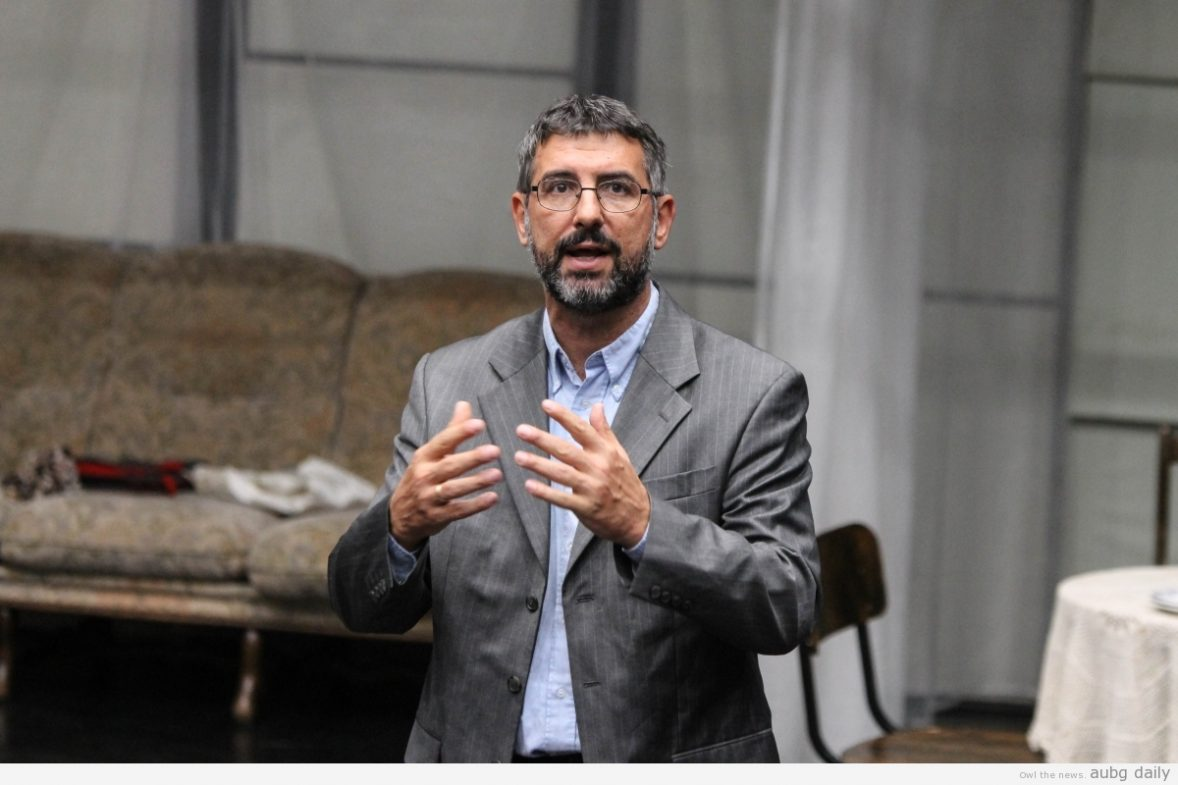
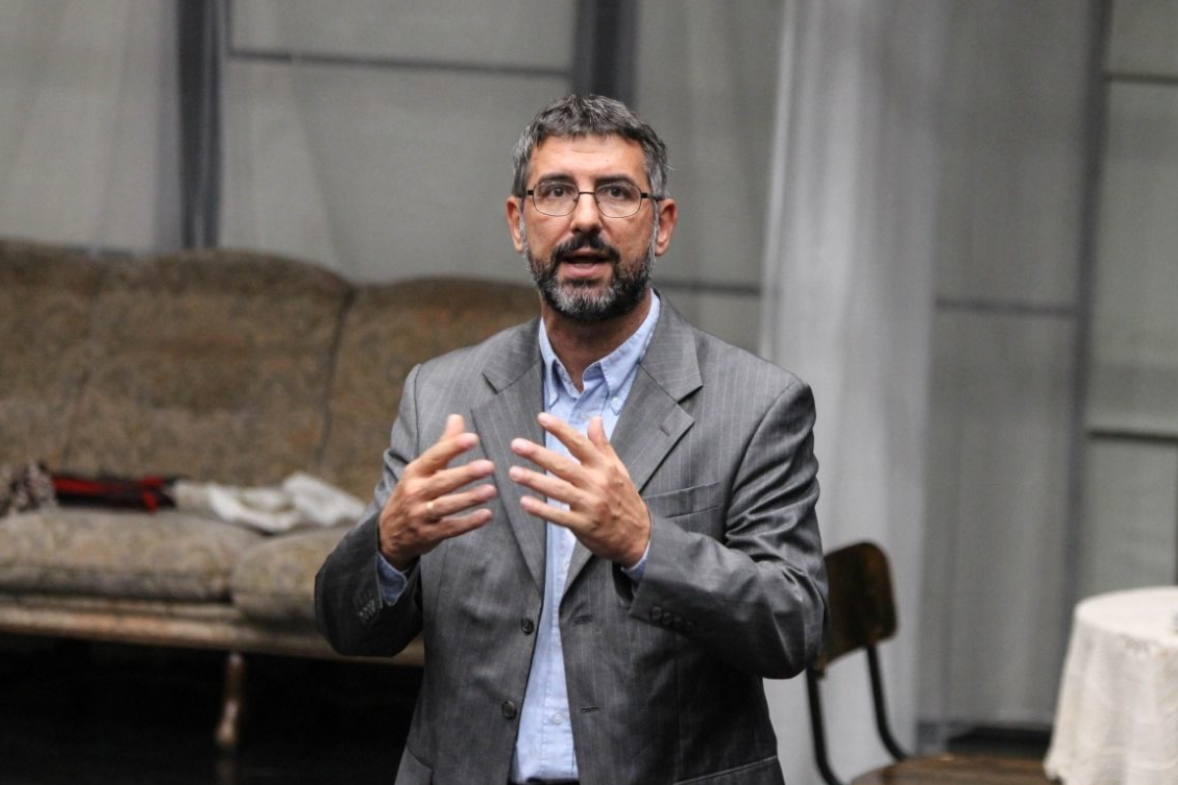
about image hover

diff --git a/Nedyalko_Website/NedyalkoGPT.html b/Nedyalko_Website/NedyalkoGPT.html
@@ -1,0 +1,102 @@
+<!DOCTYPE html>
+<html>
+  <head>
+    <title>Chat Interface</title>
+    <style>
+      /* Style the chat messages */
+      .message-container {
+        display: flex;
+        flex-direction: column;
+        align-items: flex-end;
+        margin: 10px;
+      }
+      .user-message {
+        background-color: #e9e9e9;
+        border-radius: 20px;
+        padding: 10px 20px;
+        margin-bottom: 10px;
+        align-self: flex-start;
+        font-size: 16px;
+        font-family: Arial, sans-serif;
+      }
+      .chatbot-message {
+        background-color: #0099ff;
+        border-radius: 20px;
+        padding: 10px 20px;
+        margin-bottom: 10px;
+        align-self: flex-end;
+        font-size: 16px;
+        font-family: Arial, sans-serif;
+        color: #fff;
+      }
+      
+      /* Style the input field */
+      input[type="text"] {
+        padding: 10px;
+        border-radius: 20px;
+        border: none;
+        font-size: 16px;
+        font-family: Arial, sans-serif;
+        width: 80%;
+        margin-right: 10px;
+      }
+      input[type="submit"] {
+        padding: 10px 20px;
+        border-radius: 20px;
+        border: none;
+        font-size: 16px;
+        font-family: Arial, sans-serif;
+        background-color: #0099ff;
+        color: #fff;
+        cursor: pointer;
+      }
+    </style>
+  </head>
+  <body>
+    <div class="message-container">
+      <!-- example user message -->
+      <div class="user-message">Hello, how are you?</div>
+      
+      <!-- example chatbot message -->
+      <div class="chatbot-message">I'm doing well, thanks for asking!</div>
+    </div>
+    
+    <!-- input field and submit button -->
+    <form>
+      <input type="text" id="user-input" placeholder="Type your message...">
+      <input type="submit" value="Send">
+    </form>
+    
+    <script>
+      // function to generate random chatbot response
+      function generateChatbotResponse() {
+		  // array of possible chatbot responses
+		  const responses = [
+			"I'm sorry, I didn't understand that.",
+			"That's interesting, can you tell me more?",
+			"I'm not sure what you mean. Could you rephrase that?",
+			"That's a great point.",
+			"I see what you're saying.",
+			"Interesting, tell me more.",
+			"I'm not sure I agree with you.",
+			"Thanks for sharing your thoughts.",
+			"I appreciate your input.",
+			"Let's change the subject. What else would you like to talk about?",
+			"That's a good question. I'll have to think about it.",
+			"I'm glad we're having this conversation.",
+			"That's a common concern. Have you considered other options?",
+			"Interesting perspective. What led you to that conclusion?",
+			"I'm sorry, but I'm not programmed to handle that topic.",
+			"I'm not sure what to say to that. Let me get back to you on that one."
+		  ];
+
+		  // generate a random index from the responses array
+		  const randomIndex = Math.floor(Math.random() * responses.length);
+
+		  // return the randomly selected response
+		  return responses[randomIndex];
+	}
+	</script>
+	</body>
+</html>
+

diff --git a/Nedyalko_Website/about.html b/Nedyalko_Website/about.html
@@ -15,7 +15,9 @@
         </ul>
     </nav>
     <div class="about">
-        <img src="img/ned.jpeg" style="width:900px; height:450px; margin-right:20px; margin-top: 50px;">
+        <div class="ned">
+            <img src="img/ned.jpeg" style="width:700px; height:450px; margin-right:20px; margin-top: 50px;">
+        </div>
         <div>
           <p style="font-size: x-large;">Nedyalko Delchev is a Bulgarian actor and director.</p>
           <p style="font-size: large;">From his early twenties Nedyalko Delchev has wanted to become a director. 

diff --git a/Nedyalko_Website/style.css b/Nedyalko_Website/style.css
@@ -107,4 +107,11 @@ footer {
     border: 2px solid black;
     background-color: #111;
   }
+
+.ned {
+    transition: transform 0.3s ease;
+}
+.ned:hover {
+    transform: scale(1.05);
+  }
   
